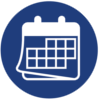
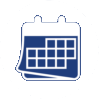
Novo ícone para atividades sem imagem

diff --git a/templates/detalhes-atividade.html b/templates/detalhes-atividade.html
@@ -24,7 +24,7 @@
               <div ng-repeat="horario in atividade.horarios" class="col s12 m4">
                 <div class="card-panel small">
                   <div class="card-content blue-text">
-                    <h5>{{horarioFrequencia[horario.frequencia]}}</h5>
+                    <h5><i class="material-icons left">schedule</i>{{horarioFrequencia[horario.frequencia]}}</h5>
                     <p><b>Horário: </b>{{horario.hora | date: 'HH:mm'}}</p>
                     <p ng-show="horario.frequencia == 0"><b>Data: </b>{{horario.dia + '/' + horario.mes + '/' + horario.ano}}</p>
                     <p ng-show="horario.frequencia == 1"><b>Fins de Semana: </b>{{horario.excluirFds ? "Não" : "Sim"}}</p>

diff --git a/templates/app.html b/templates/app.html
@@ -34,8 +34,7 @@
           <div class="card small">
             <div class="card-image imagem-cartao-principal">
               <img class="" ng-if="atividade.imagemPrincipal" ng-src="{{imageAddress + atividade.imagemPrincipal}}">
-              <img ng-if="!atividade.imagemPrincipal" src="img/orange.jpg" alt="" />
-              <h1 ng-if="!atividade.imagemPrincipal" class="card-title bold">Evento</h1>
+              <img ng-if="!atividade.imagemPrincipal" src="img/atividade.jpg" alt="" />
             </div>
             <div class="card-content">
               <span style="font-size:16px;">{{atividade.nome}}</span>

diff --git a/templates/directives/menu.html b/templates/directives/menu.html
@@ -7,9 +7,9 @@
 <div class="side-nav fixed grey darken-3" id="mobile-demo">
   <div class="row valign-wrapper grey darken-4">
     <div class="col s6">
-      <img class="logo-icon " src="../img/icone.png">
+      <img class="logo-icon" src="../img/icone.png">
     </div>
-    <div class="col s6 ">
+    <div class="col s6">
       <a href="#" class="brand-logo valign white-text">Agenda UFC</a>
     </div>
   </div>
